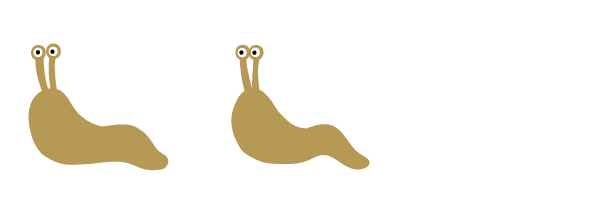
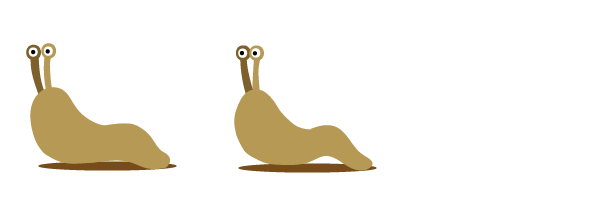
Add files via upload

diff --git a/mugen-distribution-master 2/demo/style.css b/mugen-distribution-master 2/demo/style.css
@@ -69,7 +69,7 @@ body {
 
 .hero {
   position: absolute;
-  bottom: 80px;
+  bottom: 100px;
   left: 400px;
   width: 300px;
   height: 300px;
@@ -97,14 +97,14 @@ body {
 }
 
 .hero.jumping {
-  background-image: url("jumping-sprite.png");
+  background-image: url("jumping-slug.png");
   animation-name: spriteSheet;
   animation-duration: 1000ms;
   animation-timing-function: steps(4); /* number of frames in sprite (not counting the final blank space) */
 }
 
 .hero.doing-action {
-  background-image: url("action-sprite.png");
+  background-image: url("slime-slug.png");
   animation-name: spriteSheet;
   animation-duration: 600ms;  /* set to same number in initialize() as well or it will look weird */
   animation-timing-function: steps(4); /* number of frames in sprite (not counting the final blank space) */

diff --git a/mugen-distribution-master 2/demo/script.js b/mugen-distribution-master 2/demo/script.js
@@ -1,4 +1,4 @@
 document.addEventListener("DOMContentLoaded", function () {
   var mugen = new MUGEN();
-  mugen.initialize({titleScreenImageURL: "./img/title-screen.png", actionRadius: 100, timeBetweenNPCs: 3200, npcCollisionRadius: 100, actionDuration:600, jumpHeight: 300});
+  mugen.initialize({titleScreenImageURL: "./img/title-screen.png", actionRadius: 100, timeBetweenNPCs: 2500, npcCollisionRadius: 100, actionDuration:700, jumpHeight: 200, heroSpeed: 200});
 });
